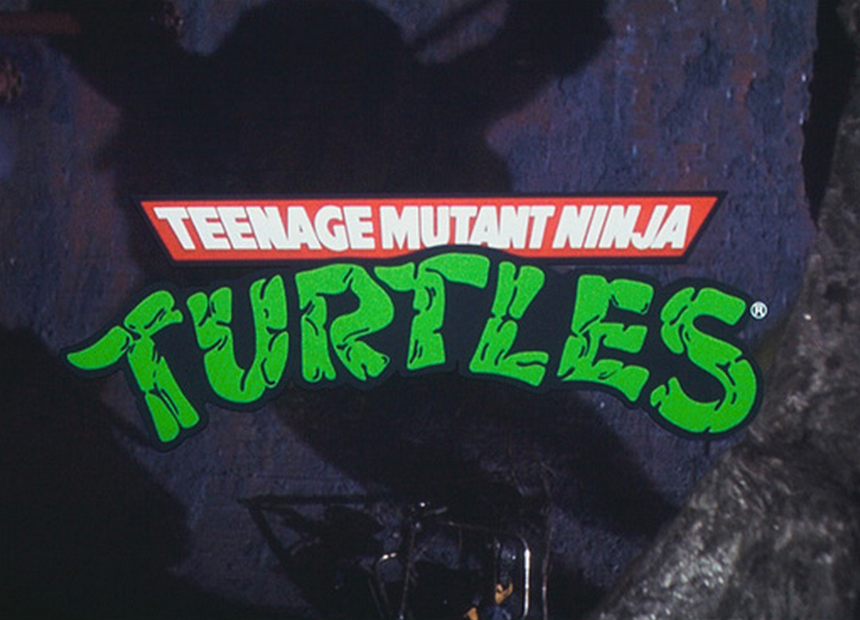
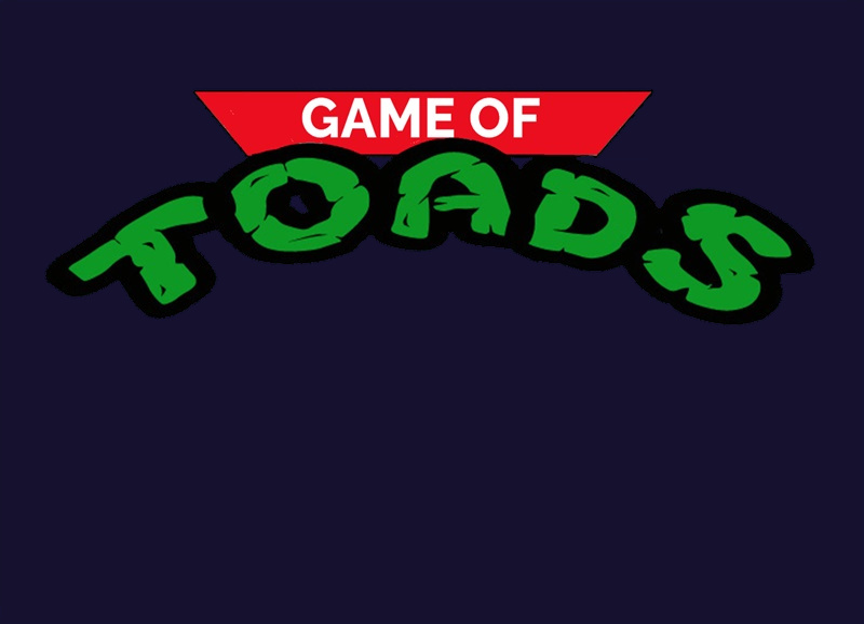
Ajout de gestions de fermeture dans deux boucles et chgmt de l'image de menu

diff --git a/Fenetre.py b/Fenetre.py
@@ -180,6 +180,9 @@ class Fenetre:
         continuer = True
         while continuer and not self.closing:
             for e in pygame.event.get():
+                if e.type == QUIT:
+                    continuer = False
+                    sys.exit()
                 if e.type == KEYDOWN:
                     if e.key == K_s:
                         self.multiInitServeur()
@@ -298,6 +301,9 @@ class Fenetre:
         continuer = True
         while continuer and not self.closing:
             for e in pygame.event.get():
+                if e.type == QUIT:
+                    continuer = False
+                    sys.exit()
                 if e.type == KEYDOWN:
                     if e.key == K_KP_ENTER or e.key == K_RETURN or e.key == K_z:
                         continuer = False
